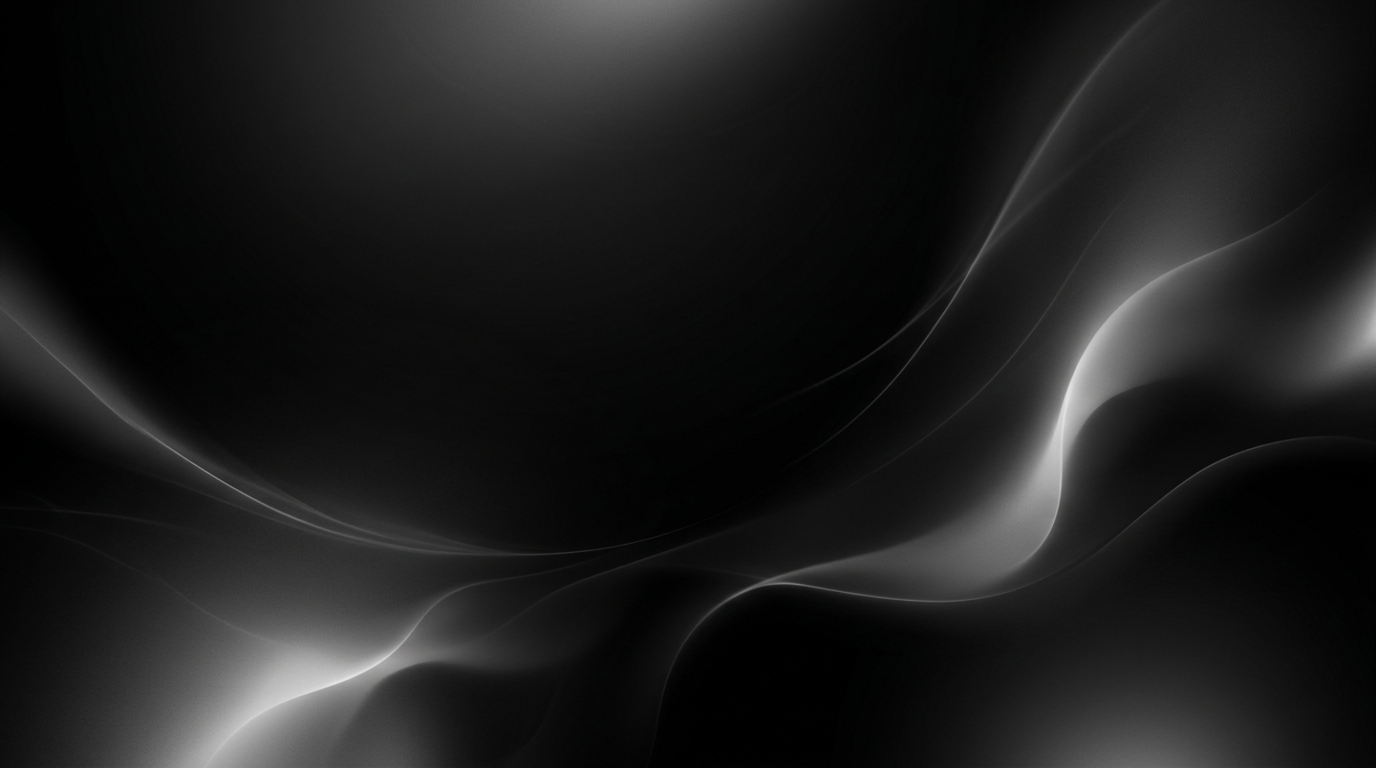
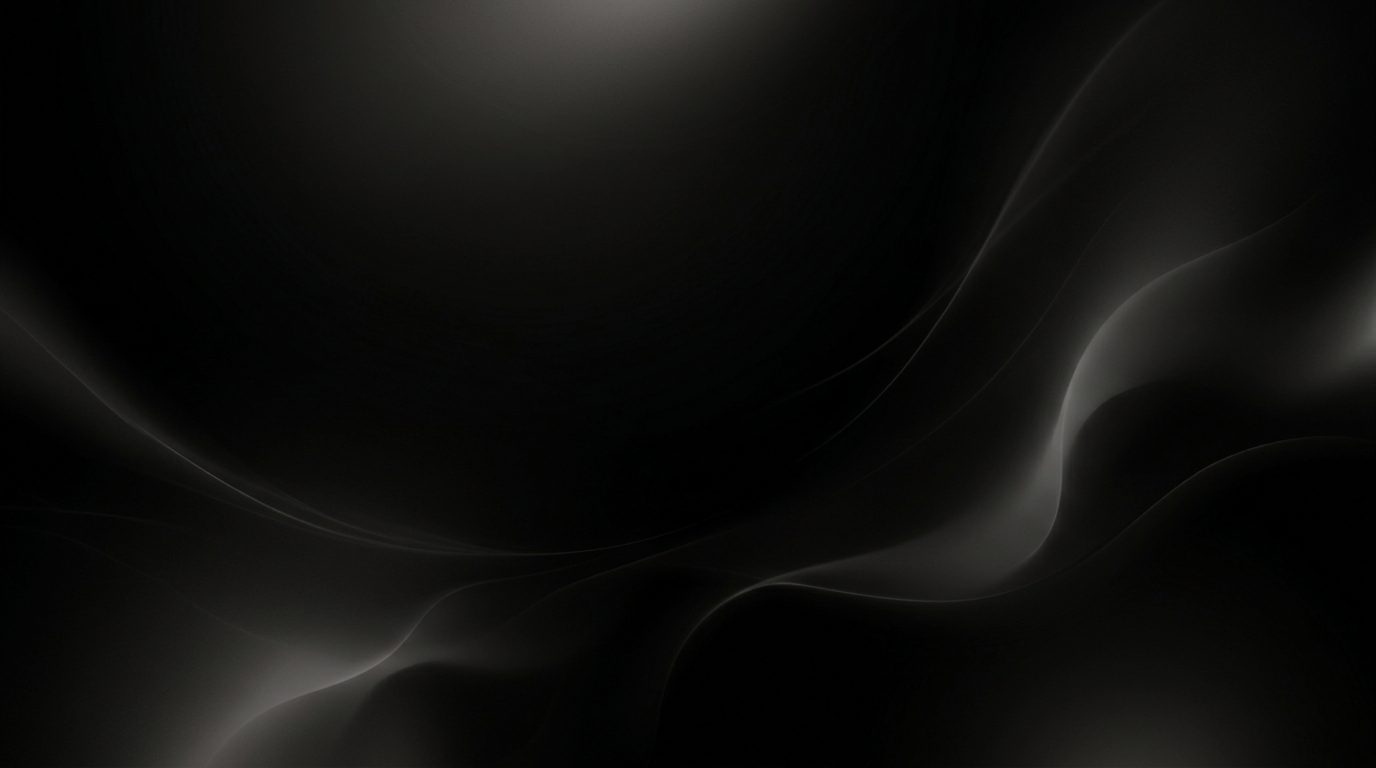
I changed the opacity of the containers and adjusted the image as asked

diff --git a/src/App.vue b/src/App.vue
@@ -123,6 +123,7 @@ export default class App extends Mixins(BaseMixin, ThemeMixin) {
     get mainStyle() {
         const style: any = {}
         style.backgroundImage = "url('/img/mainsail-background.png')"
+        style.opacity = 0.80
         style.backgroundSize = 'cover'
         style.backgroundPosition = 'center'
         style.backgroundAttachment = 'fixed'
@@ -237,6 +238,7 @@ export default class App extends Mixins(BaseMixin, ThemeMixin) {
     padding: 0 !important;
     margin: 0 !important;
     max-width: 100% !important;
+    opacity: 0.85 !important;
 }
 
 .v-main {
